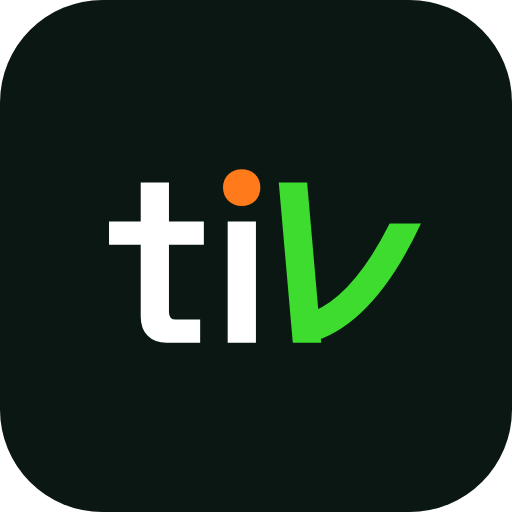
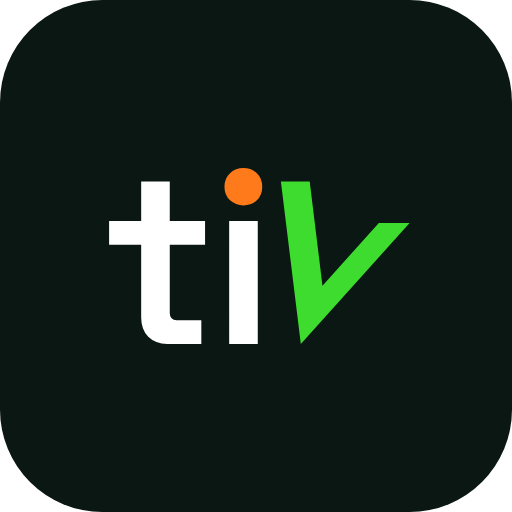
docs: set k to the approved reference shape in green (brand v9)
Tall near-vertical left arm (7°), slimmer right arm at 42°, sharp
baseline point; green k on all marks; rebuilt variants, lockups, PNGs.

Claude-Session: https://claude.ai/code/session_017kFtNwsPKotCSVkFzJ2a7s

diff --git a/docs/tikalgo/brand/README.md b/docs/tikalgo/brand/README.md
@@ -1,15 +1,15 @@
-# TikAlgo — Logo & Brand Assets (v8)
+# TikAlgo — Logo & Brand Assets (v9)
 
-**Concept — AI × Trading monogram:** the letters **t i** followed by a **green k**: a near-vertical
-left arm rising to the height of the *t*, a **small flat base** at the corner (like the foot of a
-7), and a right arm that **curves** up to x-height. It reads as the **k** of *tikalgo*, an
-**up-trend**, and an **approved-signal check**. The dot of the *i* is the **orange AI node**.
-Everything sits in a **rounded square** (corner radius = 20% of the side).
+**Concept — AI × Trading monogram:** the letters **t i** followed by a **green k** drawn exactly like
+the approved reference: a tall, almost-vertical left arm (to the height of the *t*) and a slimmer
+right arm rising at 42°, meeting in a sharp point on the baseline. It reads as the **k** of
+*tikalgo*, an **up-trend**, and an **approved-signal check**. The dot of the *i* is the
+**orange AI node**. Everything sits in a **rounded square** (corner radius = 20% of the side).
 
 **Typeface:** [Space Grotesk](https://fonts.google.com/specimen/Space+Grotesk) SemiBold (600) —
 SIL Open Font License 1.1 (free for commercial use, incl. logos). Letters are converted to
-vector outlines (no font needed at runtime). The k is custom geometry matched to the font's stem width: left arm 5°,
-foot 0.3 × stem, right arm a narrow constant-width quadratic curve.
+vector outlines (no font needed at runtime). The k is custom geometry matched to the font's stem width: left arm 7°,
+right arm 42° at 0.8 × stem width.
 
 ## Variants
 | File | Description | Use |
